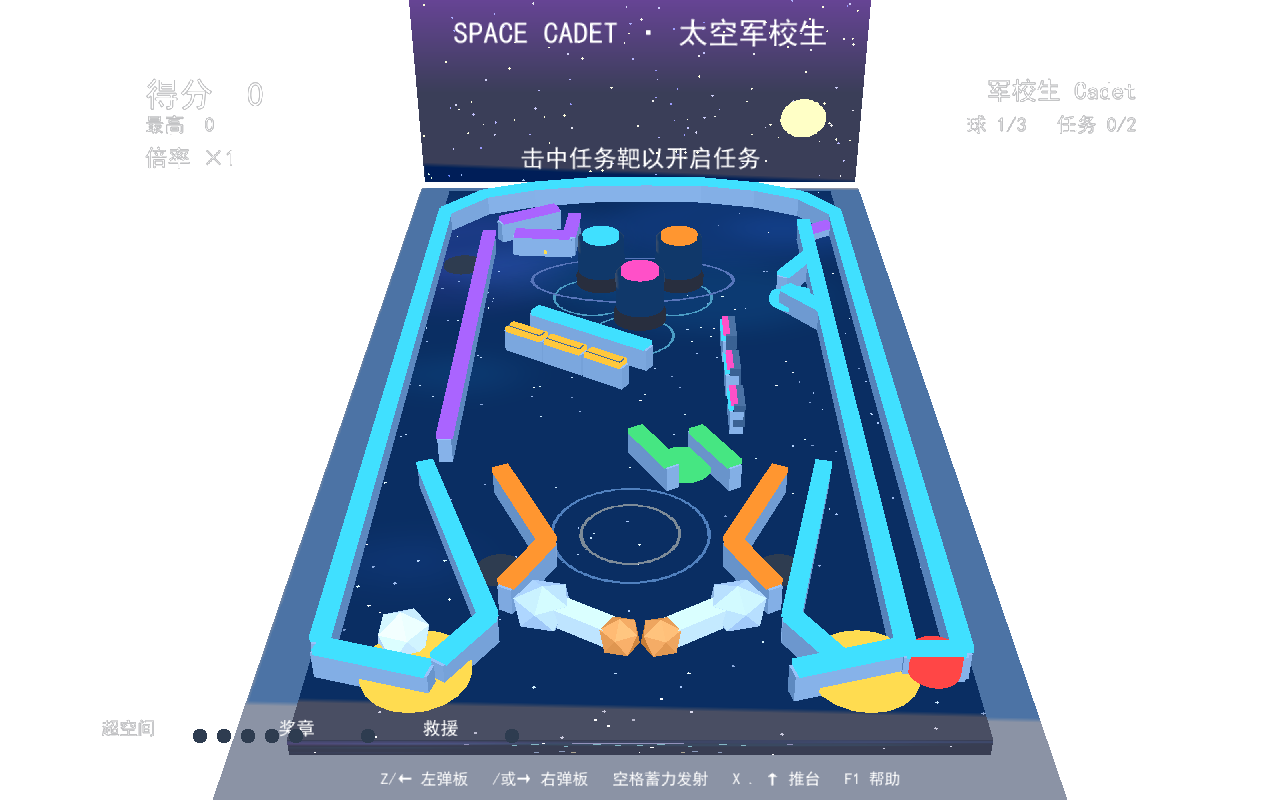
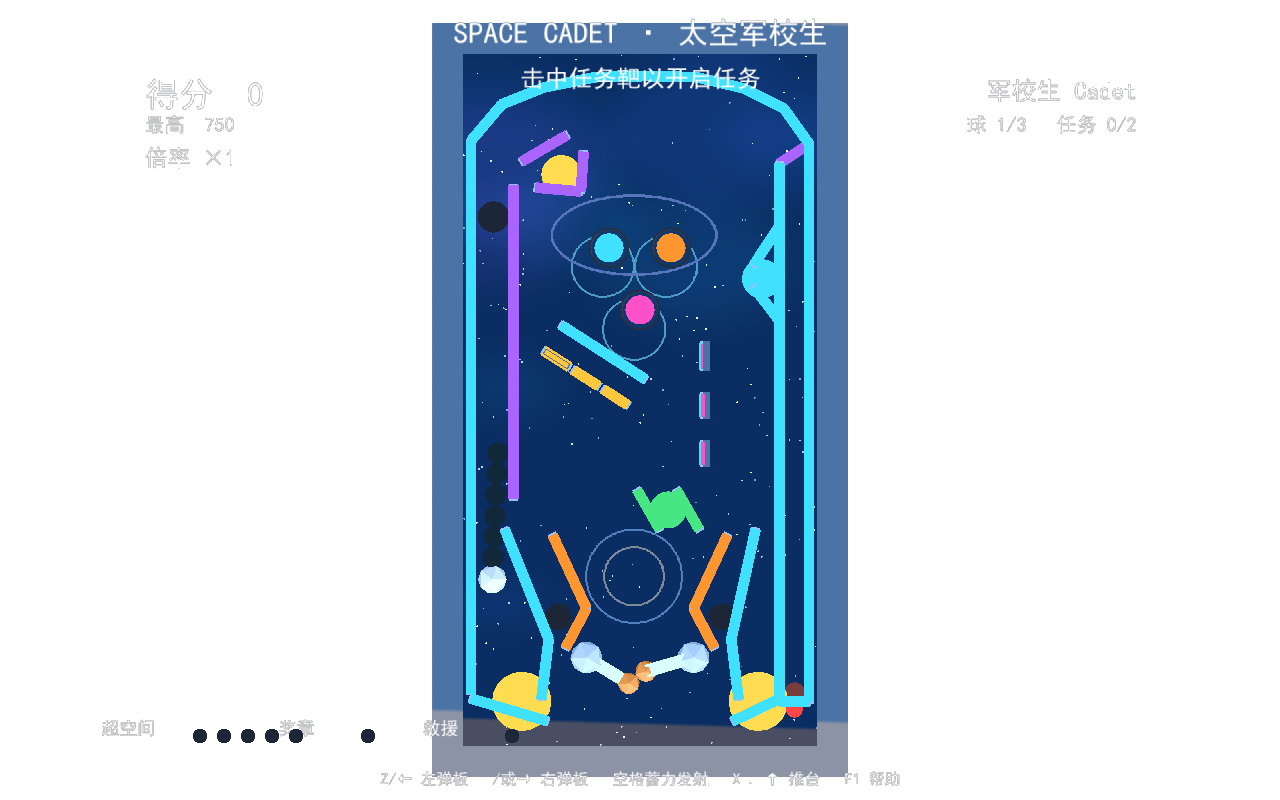
Switch to a pure top-down 2D orthographic camera
Replace the angled perspective view with an orthographic camera
looking straight down at the table (screen top = table top), closer
to the original game's presentation. Move the mission panel up into
the dark area above the arc so it no longer overlaps the playfield.
Regenerate preview.png for the new view; all 20 tests still pass.

diff --git a/main.py b/main.py
@@ -141,9 +141,11 @@ except Exception:
     pass
 if hasattr(window, "fps_counter") and window.fps_counter:
     window.fps_counter.enabled = False
-camera.fov = 50
-camera.position = (0.30, 0.90, -0.92)
-camera.look_at(Vec3(0.30, 0.02, 0.50))
+# 纯 2D 俯视: 正交投影, 镜头从正上方直射台面中心, 屏幕上方 = 台顶
+camera.orthographic = True
+camera.fov = 1.42               # 正交模式下为竖直视野(世界单位), 约等于整张球台
+camera.position = (0.30, 1.2, 0.575)
+camera.rotation = (90, 0, 0)
 
 CYL_SEGS = 20
 
@@ -351,14 +353,14 @@ rank_text = Text("", parent=hud, position=(0.62, 0.40), origin=(0.5, 0.5),
                  scale=1.25, color=color.rgb(255, 200, 90))
 ball_text = Text("", parent=hud, position=(0.62, 0.355), origin=(0.5, 0.5),
                  scale=1.0, color=color.rgb(160, 170, 195))
-mission_text = Text("", parent=hud, position=(0, 0.30), origin=(0, 0), scale=1.2,
+mission_text = Text("", parent=hud, position=(0, 0.40), origin=(0, 0), scale=1.2,
                     color=color.rgb(255, 240, 170))
-mission_sub = Text("", parent=hud, position=(0, 0.262), origin=(0, 0), scale=0.9,
+mission_sub = Text("", parent=hud, position=(0, 0.365), origin=(0, 0), scale=0.9,
                    color=color.rgb(170, 190, 220))
 fuel_bar_bg = Entity(parent=hud, model="cube", scale=(0.28, 0.012, 1),
-                     position=(0, 0.228), texture=tex_color((40, 50, 70)))
+                     position=(0, 0.335), texture=tex_color((40, 50, 70)))
 fuel_bar = Entity(parent=hud, model="cube", scale=(0.28, 0.009, 1),
-                  position=(-0.14, 0.228), origin=(-0.5, 0), texture=tex_color(GREEN))
+                  position=(-0.14, 0.335), origin=(-0.5, 0), texture=tex_color(GREEN))
 hyper_dots = [Entity(parent=hud, model="circle", scale=0.018,
                      position=(-0.55 + i * 0.03, -0.42), texture=tex_color(DIM))
               for i in range(5)]

diff --git a/README.md b/README.md
@@ -4,7 +4,8 @@
 (任务晋升军衔、奖章降落靶、超空间滑道、虫洞、任务燃料等),代码、美术贴图与
 音效均为本项目原创实现,不包含原版游戏的任何受版权保护素材。
 
-技术栈:**Python + Ursina(Panda3D) 3D 渲染 + 自研 2D 弹球物理引擎**。
+技术栈:**Python + Ursina(Panda3D) 渲染 + 自研 2D 弹球物理引擎**。视角为纯 2D
+俯视正交投影(同原版观感),3D 渲染管线保留了光照与阴影质感。
 
 ## 运行
 
@@ -82,7 +83,7 @@ python tests/test_physics.py     # 17/17 通过: 发射/弹板/单向门/虫洞/
 ## 已知简化(相对原版)
 
 - 任务为 8 种代表性设计(原版 17 种),奖励数值为自定平衡值;
-- 视觉为现代化重制(星空台面、霓虹光边、阴影),非原版贴图还原;
+- 视觉为现代化重制(纯 2D 俯视、星空台面、霓虹光边、阴影),非原版贴图还原;
 - 无音效(按需求省略)。
 
 ## 环境备注(开发时踩坑记录)
